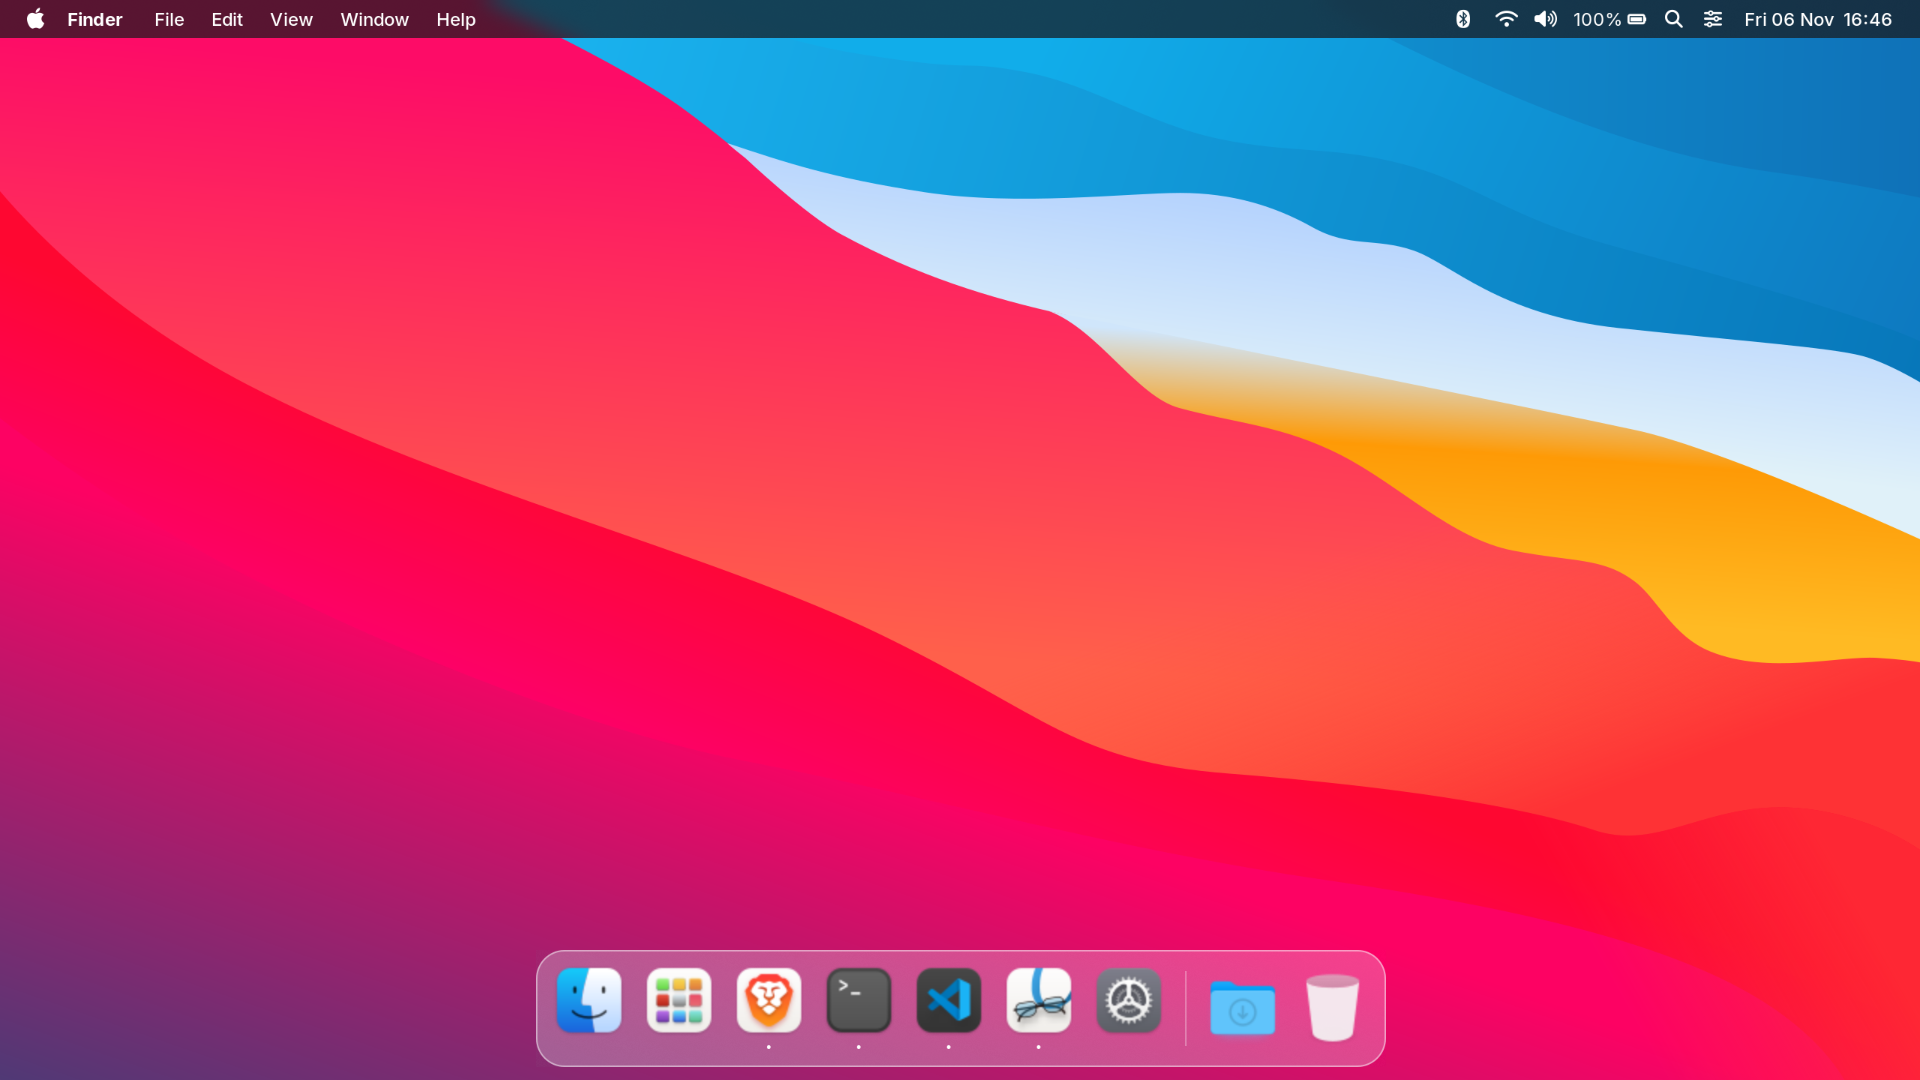
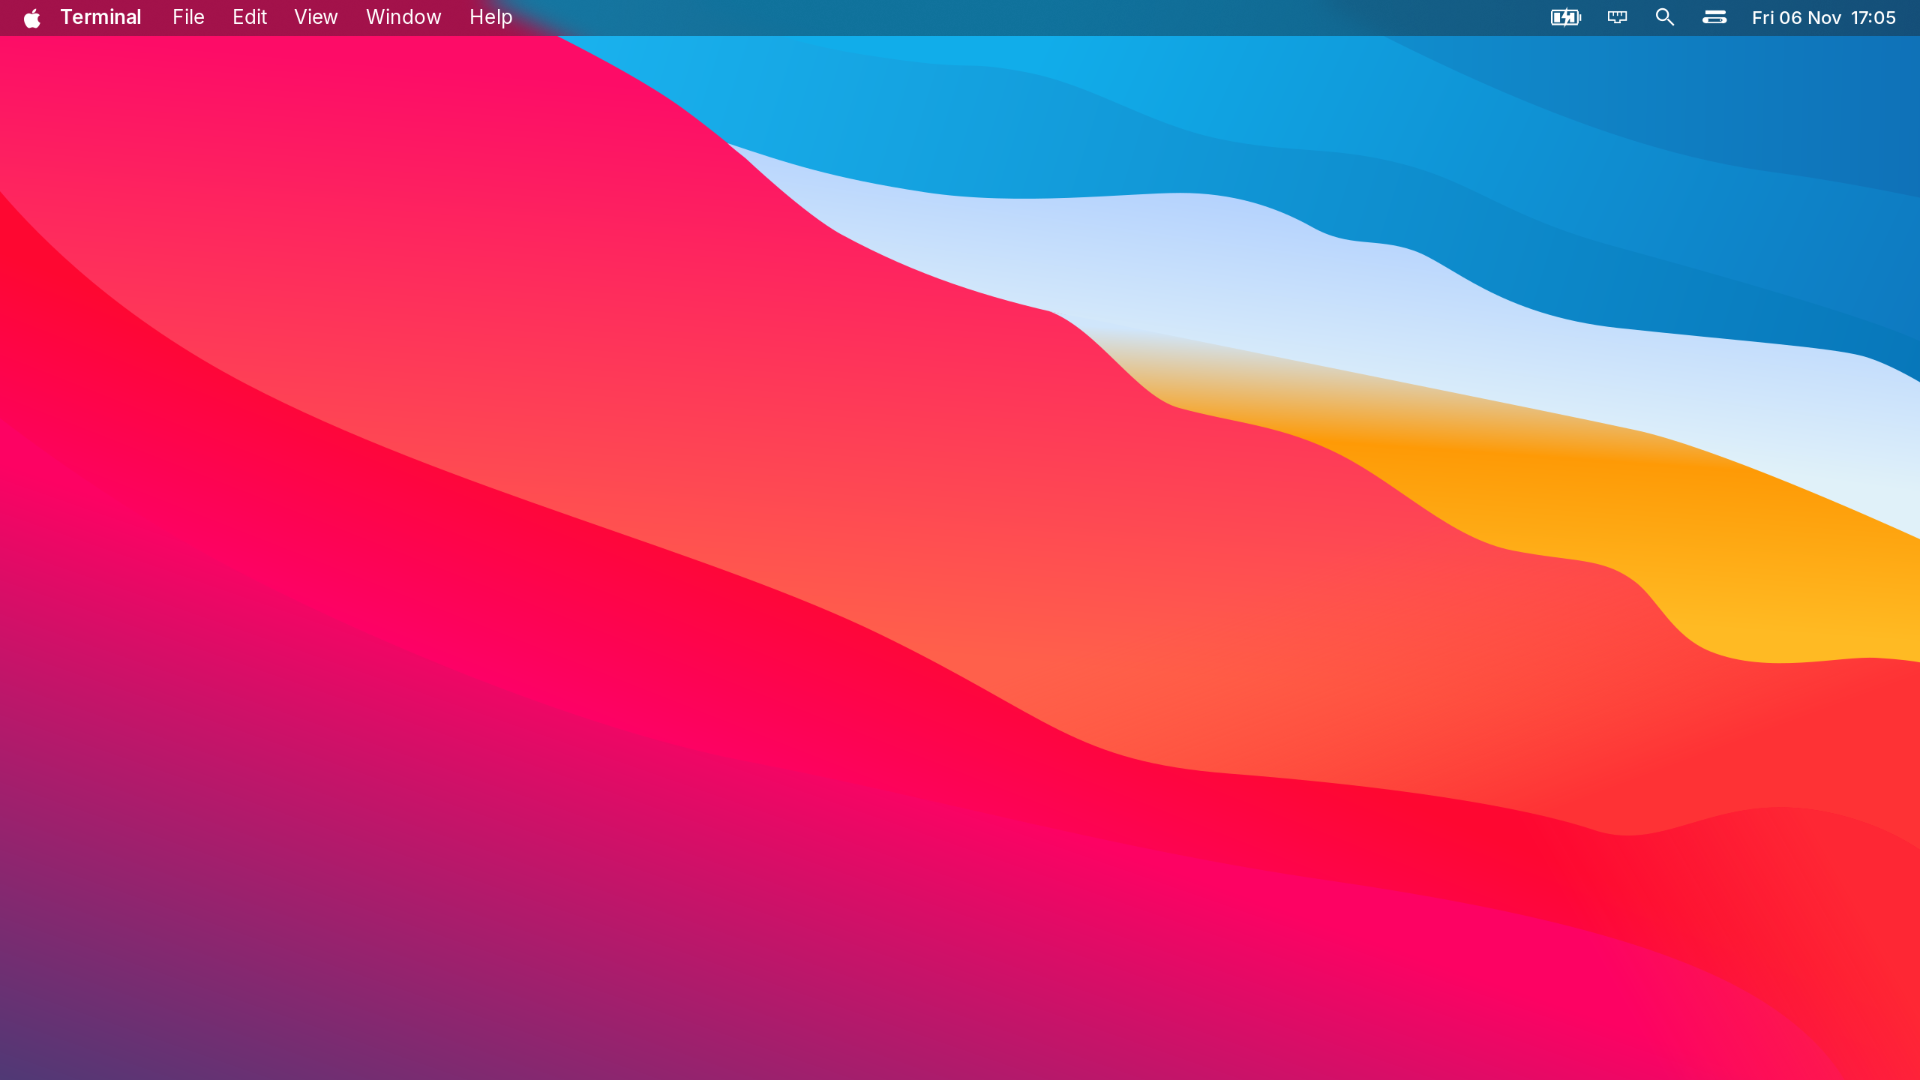
Refine Mac menu bar and show real battery charging states

Changed region(s): [[0.2812, 0.8556, 0.7188, 1.0], [0.0, 0.0, 1.0, 0.0611]]

diff --git a/home/.config/waybar/style.css b/home/.config/waybar/style.css
@@ -1,10 +1,14 @@
-* { font-family: "Inter", "JetBrainsMono Nerd Font"; font-size: 12px; min-height: 0; border: none; border-radius: 0; box-shadow: none; text-shadow: none; }
-window#waybar { background: rgba(24,24,28,0.72); color: #ffffff; }
-#custom-apple { font-family: "JetBrainsMono Nerd Font"; font-size: 17px; padding: 0 15px 0 18px; }
-#custom-app { font-weight: 700; padding: 0 12px 0 2px; }
-#custom-file, #custom-edit, #custom-view, #custom-window, #custom-help { padding: 0 9px; font-weight: 500; }
-#bluetooth, #network, #pulseaudio, #custom-search, #custom-control { font-family: "JetBrainsMono Nerd Font"; font-size: 13px; padding: 0 9px; }
-#battery { padding: 0 9px; }
-#clock { padding: 0 18px 0 10px; font-weight: 500; }
-#battery.critical { color: #ff6961; }
-tooltip { font-family: "Inter"; background: #29292d; border: 1px solid #66666a; border-radius: 7px; color: #ffffff; }
+/* macOS Big Sur/Sonoma proportions; icons are original vector drawings. */
+* { font-family: "Inter"; font-size: 13px; font-weight: 400; min-height: 0; border: none; border-radius: 0; box-shadow: none; text-shadow: none; }
+window#waybar { background: rgba(26,26,30,0.40); color: #ffffff; }
+.modules-left, .modules-right { margin: 0; padding: 0; }
+#custom-apple { font-family: "JetBrainsMono Nerd Font"; font-size: 16px; padding: 0 13px 0 16px; }
+#custom-app { font-weight: 600; padding: 0 12px 0 1px; }
+#custom-file, #custom-edit, #custom-view, #custom-window, #custom-help { padding: 0 9px; }
+#custom-apple:hover, #custom-app:hover, #custom-file:hover, #custom-edit:hover, #custom-view:hover, #custom-window:hover, #custom-help:hover, #custom-battery:hover, #custom-network:hover, #custom-search:hover, #custom-control:hover, #clock:hover { background: rgba(255,255,255,0.13); border-radius: 4px; }
+#custom-battery, #custom-network, #custom-search, #custom-control { font-family: "Mac Desktop Symbols"; font-size: 14px; padding: 0 8px; }
+#custom-battery { font-size: 17px; }
+#clock { padding: 0 16px 0 9px; font-size: 12px; font-weight: 500; }
+tooltip { font-family: "Inter"; font-size: 12px; background: rgba(37,37,42,0.98); border: 1px solid rgba(255,255,255,0.22); border-radius: 7px; color: #ffffff; }
+
+#custom-battery.critical { color: #ff6159; }

diff --git a/home/.config/waybar/styles/WhiteSur.css b/home/.config/waybar/styles/WhiteSur.css
@@ -1,10 +1,14 @@
-* { font-family: "Inter", "JetBrainsMono Nerd Font"; font-size: 12px; min-height: 0; border: none; border-radius: 0; box-shadow: none; text-shadow: none; }
-window#waybar { background: rgba(24,24,28,0.72); color: #ffffff; }
-#custom-apple { font-family: "JetBrainsMono Nerd Font"; font-size: 17px; padding: 0 15px 0 18px; }
-#custom-app { font-weight: 700; padding: 0 12px 0 2px; }
-#custom-file, #custom-edit, #custom-view, #custom-window, #custom-help { padding: 0 9px; font-weight: 500; }
-#bluetooth, #network, #pulseaudio, #custom-search, #custom-control { font-family: "JetBrainsMono Nerd Font"; font-size: 13px; padding: 0 9px; }
-#battery { padding: 0 9px; }
-#clock { padding: 0 18px 0 10px; font-weight: 500; }
-#battery.critical { color: #ff6961; }
-tooltip { font-family: "Inter"; background: #29292d; border: 1px solid #66666a; border-radius: 7px; color: #ffffff; }
+/* macOS Big Sur/Sonoma proportions; icons are original vector drawings. */
+* { font-family: "Inter"; font-size: 13px; font-weight: 400; min-height: 0; border: none; border-radius: 0; box-shadow: none; text-shadow: none; }
+window#waybar { background: rgba(26,26,30,0.40); color: #ffffff; }
+.modules-left, .modules-right { margin: 0; padding: 0; }
+#custom-apple { font-family: "JetBrainsMono Nerd Font"; font-size: 16px; padding: 0 13px 0 16px; }
+#custom-app { font-weight: 600; padding: 0 12px 0 1px; }
+#custom-file, #custom-edit, #custom-view, #custom-window, #custom-help { padding: 0 9px; }
+#custom-apple:hover, #custom-app:hover, #custom-file:hover, #custom-edit:hover, #custom-view:hover, #custom-window:hover, #custom-help:hover, #custom-battery:hover, #custom-network:hover, #custom-search:hover, #custom-control:hover, #clock:hover { background: rgba(255,255,255,0.13); border-radius: 4px; }
+#custom-battery, #custom-network, #custom-search, #custom-control { font-family: "Mac Desktop Symbols"; font-size: 14px; padding: 0 8px; }
+#custom-battery { font-size: 17px; }
+#clock { padding: 0 16px 0 9px; font-size: 12px; font-weight: 500; }
+tooltip { font-family: "Inter"; font-size: 12px; background: rgba(37,37,42,0.98); border: 1px solid rgba(255,255,255,0.22); border-radius: 7px; color: #ffffff; }
+
+#custom-battery.critical { color: #ff6159; }

diff --git a/scripts/build-status-font.py b/scripts/build-status-font.py
@@ -1,0 +1,76 @@
+#!/usr/bin/env python3
+"""Build original menu-bar glyphs. Maintainer-only dependency: fonttools."""
+from pathlib import Path
+import runpy
+from fontTools.fontBuilder import FontBuilder
+from fontTools.pens.ttGlyphPen import TTGlyphPen
+from fontTools.pens.cu2quPen import Cu2QuPen
+
+root = Path(__file__).resolve().parent.parent
+status = runpy.run_path(str(root/'home/.local/bin/macos-status'))
+art = {}
+for level in range(11):
+    for index, state in enumerate(['discharging', 'charging', 'full', 'plugged']):
+        art[0xe000 + index*16 + level] = status['battery_icon']({'capacity':level*10,'connected':index!=0,'available':True,'state':state})
+for index, state in enumerate(['wifi','ethernet','offline']):
+    art[0xe050+index] = status['network_icon'](state)
+for index, name in enumerate(['spotlight','control-center']):
+    art[0xe060+index] = (root/'home/.local/share/macos-desktop/icons'/f'{name}.svg').read_text()
+fb = FontBuilder(1000,isTTF=True)
+order=['.notdef']+[f'uni{code:04X}' for code in art]
+fb.setupGlyphOrder(order)
+glyphs={'.notdef':TTGlyphPen(None).glyph()};metrics={'.notdef':(1000,0)}
+for code, source in art.items():
+    rawpen=TTGlyphPen(None);pen=Cu2QuPen(rawpen,1.0)
+    def polygon(points):
+        pen.moveTo(points[0])
+        for p in points[1:]:pen.lineTo(p)
+        pen.closePath()
+    def rect(x,y,w,h):polygon([(x,y),(x+w,y),(x+w,y+h),(x,y+h)])
+    def circle(x,y,r):
+        k=.55228475*r;pen.moveTo((x+r,y));pen.curveTo((x+r,y+k),(x+k,y+r),(x,y+r));pen.curveTo((x-k,y+r),(x-r,y+k),(x-r,y));pen.curveTo((x-r,y-k),(x-k,y-r),(x,y-r));pen.curveTo((x+k,y-r),(x+r,y-k),(x+r,y));pen.closePath()
+    if code<0xe050:
+        level=(code-0xe000)%16;state=(code-0xe000)//16
+        # Horizontal battery with a true hollow case.
+        rect(60,190,1020,65);rect(60,735,1020,65);rect(30,255,65,480);rect(1045,255,65,480);rect(1150,365,65,255)
+        if state==0:rect(155,310, max(1,800*level/10),375)
+        elif state in [1,2]:
+            rect(155,310,230,375);rect(780,310,175,375)
+            polygon([(670,920),(430,470),(605,470),(535,75),(850,580),(655,580)])
+        else:
+            rect(155,310,160,375);rect(830,310,125,375);rect(440,430,300,200);rect(485,630,50,180);rect(650,630,50,180);rect(560,230,65,200)
+        advance=1280
+    elif code==0xe050:
+        # Three rounded-looking Wi-Fi bands and a dot.
+        for rad in [510,340,175]:
+            import math
+            outer=[(600+rad*__import__('math').cos(t),250+rad*__import__('math').sin(t)) for t in [__import__('math').radians(v) for v in range(42,139,4)]]
+            inner=[(600+(rad-75)*__import__('math').cos(t),250+(rad-75)*__import__('math').sin(t)) for t in [__import__('math').radians(v) for v in range(138,41,-4)]]
+            polygon(outer+inner)
+        circle(600,230,60);advance=1200
+    elif code==0xe051:
+        rect(120,300,65,460);rect(185,695,770,65);rect(955,300,65,460);rect(185,300,240,65);rect(715,300,240,65);rect(425,180,290,65);rect(425,180,55,180);rect(660,180,55,180)
+        for x in [350,540,730]:rect(x,530,55,170)
+        advance=1150
+    elif code==0xe052:
+        polygon([(180,800),(240,840),(1020,180),(960,130)]);advance=1200
+    elif code==0xe060:
+        # Hollow magnifying glass ring, with clockwise inner contour.
+        circle(460,590,310)
+        # Reverse winding by reflecting the inner circular path.
+        k=.55228475*225;pen.moveTo((685,590));pen.curveTo((685,590-k),(460+k,365),(460,365));pen.curveTo((460-k,365),(235,590-k),(235,590));pen.curveTo((235,590+k),(460-k,815),(460,815));pen.curveTo((460+k,815),(685,590+k),(685,590));pen.closePath()
+        polygon([(650,370),(710,430),(1030,110),(970,50)]);advance=1100
+    else:
+        rect(110,610,880,180);circle(200,700,90);circle(990,700,90)
+        rect(110,190,880,65);rect(110,405,880,65);circle(110,330,140);circle(990,330,140)
+        # Dark holes use opposite winding.
+        for x,y,r in [(230,700,55),(860,330,60)]:
+            k=.55228475*r;pen.moveTo((x+r,y));pen.curveTo((x+r,y-k),(x+k,y-r),(x,y-r));pen.curveTo((x-k,y-r),(x-r,y-k),(x-r,y));pen.curveTo((x-r,y+k),(x-k,y+r),(x,y+r));pen.curveTo((x+k,y+r),(x+r,y+k),(x+r,y));pen.closePath()
+        advance=1130
+    name=f'uni{code:04X}';glyphs[name]=rawpen.glyph();metrics[name]=(advance,0)
+fb.setupCharacterMap({code:f'uni{code:04X}' for code in art})
+fb.setupGlyf(glyphs);fb.setupHorizontalMetrics(metrics);fb.setupHorizontalHeader(ascent=950,descent=-50)
+fb.setupNameTable({'familyName':'Mac Desktop Symbols','styleName':'Regular','uniqueFontIdentifier':'MacDesktopSymbols-Regular-1','fullName':'Mac Desktop Symbols','psName':'MacDesktopSymbols-Regular'})
+fb.setupOS2(sTypoAscender=950,sTypoDescender=-50,usWinAscent=950,usWinDescent=50);fb.setupPost();fb.setupMaxp()
+output=root/'home/.local/share/fonts/MacDesktopSymbols.ttf';output.parent.mkdir(parents=True,exist_ok=True);fb.save(output)
+print(output)

diff --git a/scripts/test-status.py b/scripts/test-status.py
@@ -1,0 +1,29 @@
+#!/usr/bin/env python3
+"""Exercise adapter transitions using an isolated sysfs fixture."""
+from pathlib import Path
+import runpy
+import tempfile
+import xml.etree.ElementTree as ET
+module = runpy.run_path(str(Path(__file__).resolve().parent.parent/'home/.local/bin/macos-status'))
+with tempfile.TemporaryDirectory() as temporary:
+    root = Path(temporary)
+    def set_file(path, value):
+        path.parent.mkdir(parents=True, exist_ok=True)
+        path.write_text(str(value))
+    set_file(root/'BAT0/type', 'Battery')
+    set_file(root/'BAT0/capacity', 64)
+    set_file(root/'AC/type', 'Mains')
+    for status, online, expected in [('Charging',1,'charging'),('Full',1,'full'),('Not charging',1,'plugged'),('Discharging',0,'discharging')]:
+        set_file(root/'BAT0/status', status)
+        set_file(root/'AC/online', online)
+        state = module['battery_state'](root)
+        assert state['state'] == expected, state
+        assert state['connected'] == bool(online)
+        ET.fromstring(module['battery_icon'](state))
+    set_file(root/'BAT0/capacity', 7)
+    assert '#ff6159' in module['battery_icon'](module['battery_state'](root))
+    set_file(root/'BAT0/capacity', 'unavailable')
+    assert module['battery_state'](root)['capacity'] is None
+    set_file(root/'BAT0/present', 0)
+    assert not module['battery_state'](root)['available']
+print('Battery charging, full, plugged, discharging, critical and absent states passed.')

diff --git a/scripts/check.py b/scripts/check.py
@@ -20,7 +20,7 @@ for group in (root/'packages').glob('*.txt'):
     assert len(names) == len(set(names)), f'Duplicate package in {group}'
     assert all(name and not any(c.isspace() for c in name) for name in names)
 for source in (root/'home').rglob('*'):
-    if source.is_file() and source.suffix != '.png':
+    if source.is_file() and source.suffix not in ('.png', '.ttf', '.pyc'):
         text = source.read_text()
         assert '/home/ayush' not in text, source
         assert 'Welcome back, Ayush' not in text, source
@@ -65,7 +65,7 @@ with tempfile.TemporaryDirectory(prefix='arch-rice-test-') as temporary:
     assert (home/'.config/gtk-4.0/gtk.css').stat().st_size > 100000
     assert (home/'.local/bin/macos-dock').stat().st_mode & 0o111
     for source in (root/'home').rglob('*'):
-        if source.is_file() and source.suffix != '.png':
+        if source.is_file() and source.suffix not in ('.png', '.ttf', '.pyc'):
             target=home/source.relative_to(root/'home')
             assert '@HOME@' not in target.read_text(), target
     if shutil.which('desktop-file-validate'):

diff --git a/scripts/apply.py b/scripts/apply.py
@@ -83,7 +83,7 @@ def apply(root, home, desktop_only=False):
     try:
         for relative, data, mode in files:
             # PNG is binary; text templates carry the explicit @HOME@ token.
-            if relative.suffix != '.png':
+            if relative.suffix not in ('.png', '.ttf'):
                 data = data.replace(b'@HOME@', str(home).encode())
             atomic_write(home/relative, data, mode)
     except BaseException:

diff --git a/README.md b/README.md
@@ -13,7 +13,7 @@ for Arch Linux and Hyprland.
 
 ## The desktop
 
-- **Menu bar:** Apple menu, active application name, shortcut menus, compact status icons and right-aligned date.
+- **Menu bar:** Apple menu, active application name, shortcut menus, original vector status symbols and right-aligned date. Battery updates follow real charging/adapter states; click it for percentage, power source and charging status. Sound and Bluetooth live in Control Center.
 - **Dock:** auto-hides until you hover at the bottom edge or press `Super + Alt + D`; Finder-style file manager icon, Launchpad, browser, Terminal, Code, Preview-style PDF viewer, settings, Downloads and Trash. Running apps have indicators; clicking focuses or launches them.
 - **Appearance:** WhiteSur Dark GTK 3/4 styling, WhiteSur icons and cursors, Big Sur-style wallpaper, and Inter UI typography.
 - **Windows:** floating by default, rounded corners, shadows and desktop blur.
@@ -24,7 +24,7 @@ native macOS. Inter substitutes for Apple's San Francisco. The menu bar supplies
 shortcut actions rather than exporting every application's native menus. Linux
 apps retain their own title-bar behavior; styling varies across GTK, Qt and Electron.
 
-![Apple-style desktop menu](assets/macos-menu.png)
+![Battery status menu with power source and full-charge state](assets/macos-battery.png)
 
 ## Install
 

diff --git a/docs/REFERENCE.md b/docs/REFERENCE.md
@@ -100,3 +100,9 @@ the active desktop. The full privileged install has not been tested on a second
 clean Arch machine.
 
 Licenses and upstream commit pins are listed in [THIRD-PARTY.md](THIRD-PARTY.md).
+
+## Battery and menu-bar reference
+
+The compact status group follows the Big Sur/Sonoma menu-bar layout. Original glyphs are bundled in MacDesktopSymbols.ttf to avoid image-loader issues in Waybar 0.15. Battery status is read from Linux power_supply: charging and fully charged on AC show a lightning badge, connected-but-not-charging shows a plug, and unplugged shows charge level. Percentage and power source appear in the live dropdown. The icon does not fake a repeating charge animation. Ethernet and Wi-Fi icons reflect the actual network link.
+
+References: [Apple battery status](https://support.apple.com/en-au/guide/mac-help/mchl173fcc57/mac), [Apple Big Sur battery screenshot](https://support.apple.com/en-us/108376), and the [Sonoma screenshot library](https://512pixels.net/projects/aqua-screenshot-library/macos-14-sonoma/).

diff --git a/docs/THIRD-PARTY.md b/docs/THIRD-PARTY.md
@@ -19,3 +19,5 @@ This project is not affiliated with Apple or Arch Linux.
 The older optional wallpapers retained in `home/.local/share/wallpapers` are
 original generated artwork from the earlier desktop profile. The active profile
 uses WhiteSur.png.
+
+`MacDesktopSymbols.ttf` and its source drawings are original MIT-licensed artwork, not Apple SF Symbols. Rebuild with `uv run --with fonttools python scripts/build-status-font.py`.
